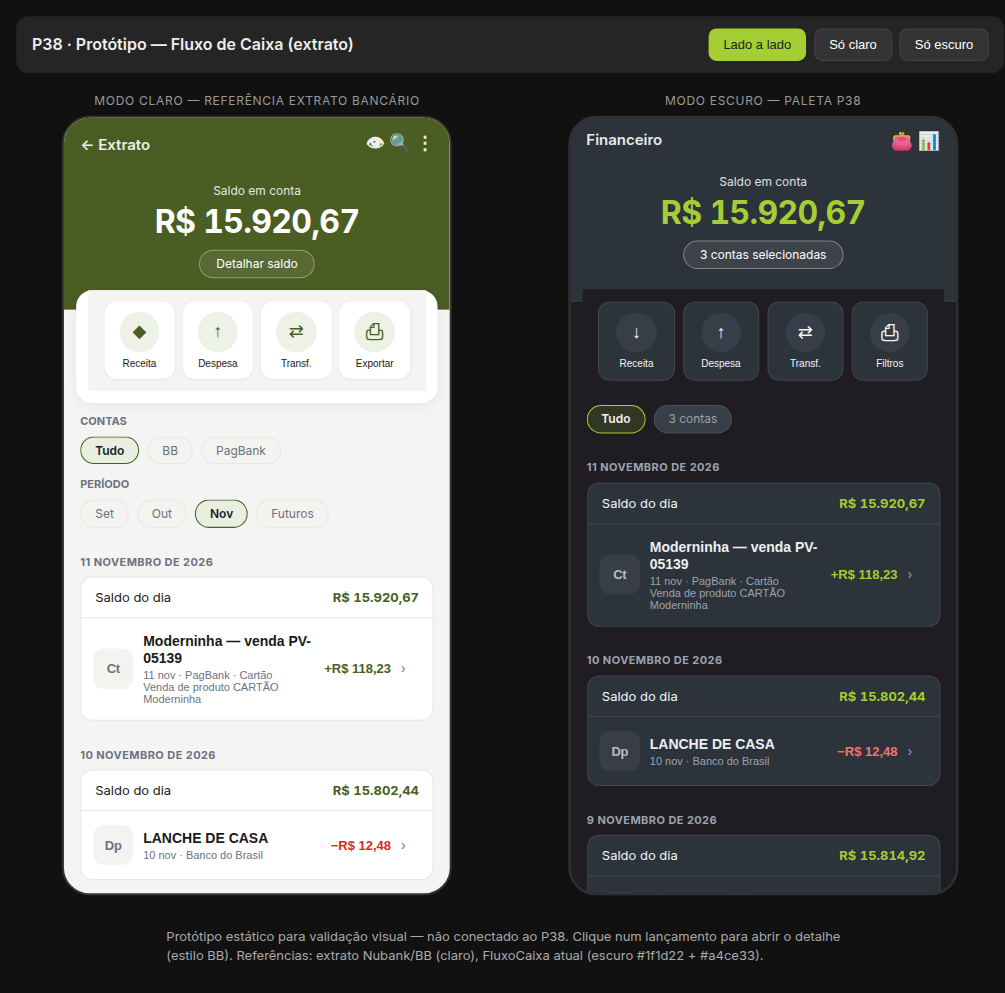
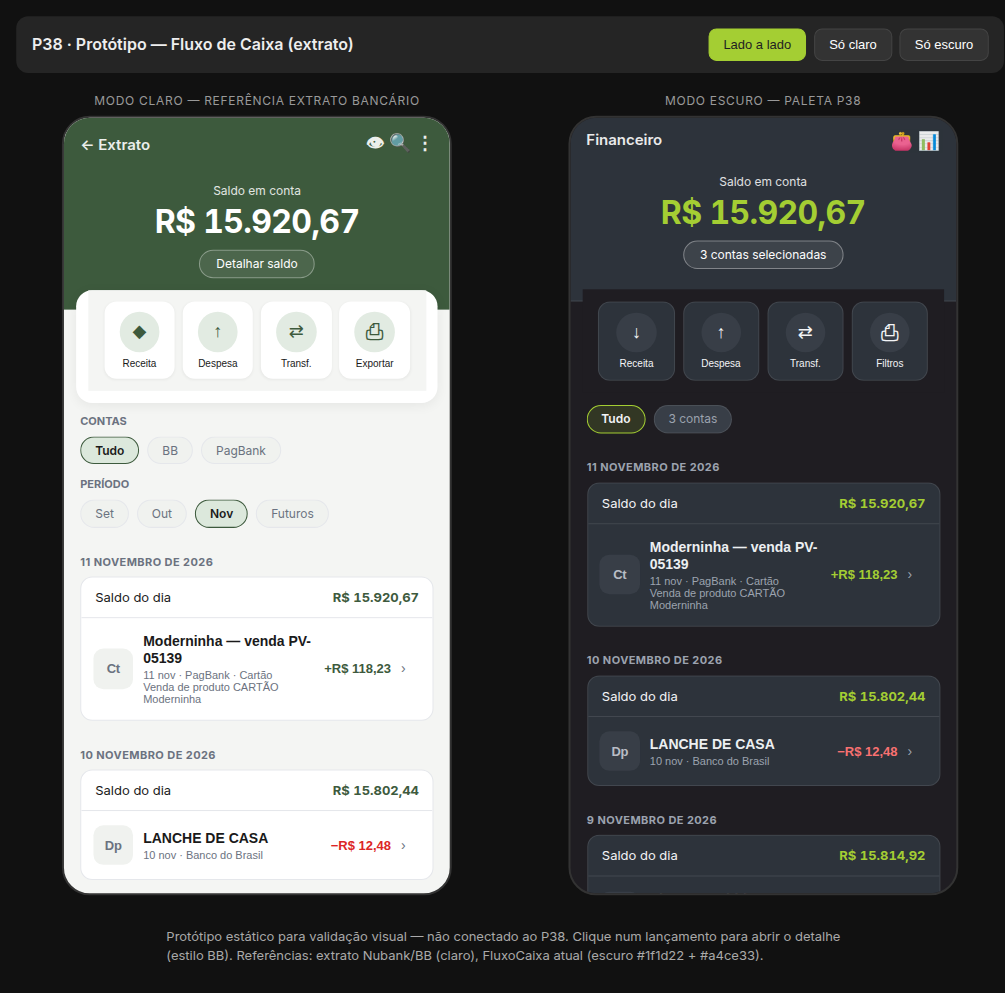
docs(prototypes): oliva mais escuro (#3d5a3d) no modo claro

Changed region(s): [[0.0617, 0.0937, 0.4627, 0.3122]]

diff --git a/docs/prototypes/fluxo-caixa-extrato-prototype.html b/docs/prototypes/fluxo-caixa-extrato-prototype.html
@@ -16,21 +16,21 @@
     [data-theme="light"] {
       --bg: #f4f5f3;
       --surface: #ffffff;
-      --hero: #4a5d23;
+      --hero: #3d5a3d;
       --hero-muted: rgba(255, 255, 255, 0.88);
       --text: #1a1a1a;
       --text-muted: #6b7280;
       --border: #e5e7eb;
-      --income: #4a5d23;
+      --income: #3d5a3d;
       --expense: #dc2626;
       --transfer: #374151;
-      --chip-bg: #f3f4f0;
-      --chip-active: #e8efe0;
-      --chip-active-border: #4a5d23;
+      --chip-bg: #f0f2ef;
+      --chip-active: #dce8dc;
+      --chip-active-border: #3d5a3d;
       --timeline: #d1d5db;
-      --fab-shadow: 0 4px 14px rgba(74, 93, 35, 0.22);
-      --cta: #d4e89a;
-      --cta-text: #3d4f1c;
+      --fab-shadow: 0 4px 14px rgba(61, 90, 61, 0.28);
+      --cta: #c5d9a8;
+      --cta-text: #2a402a;
     }
 
     /* ——— Dark (P38 atual) ——— */
@@ -211,7 +211,7 @@
       font-size: 18px;
       background: var(--chip-bg);
     }
-    [data-theme="light"] .shortcut-icon { background: #eef2e6; color: var(--income); }
+    [data-theme="light"] .shortcut-icon { background: #e2ebe2; color: var(--income); }
 
     .filters {
       padding: 12px 16px 8px;
@@ -338,7 +338,7 @@
       justify-content: space-between;
       flex-shrink: 0;
     }
-    [data-theme="light"] .detail-hero { background: #4a5d23; }
+    [data-theme="light"] .detail-hero { background: #3d5a3d; }
     .detail-hero button {
       background: none;
       border: none;
